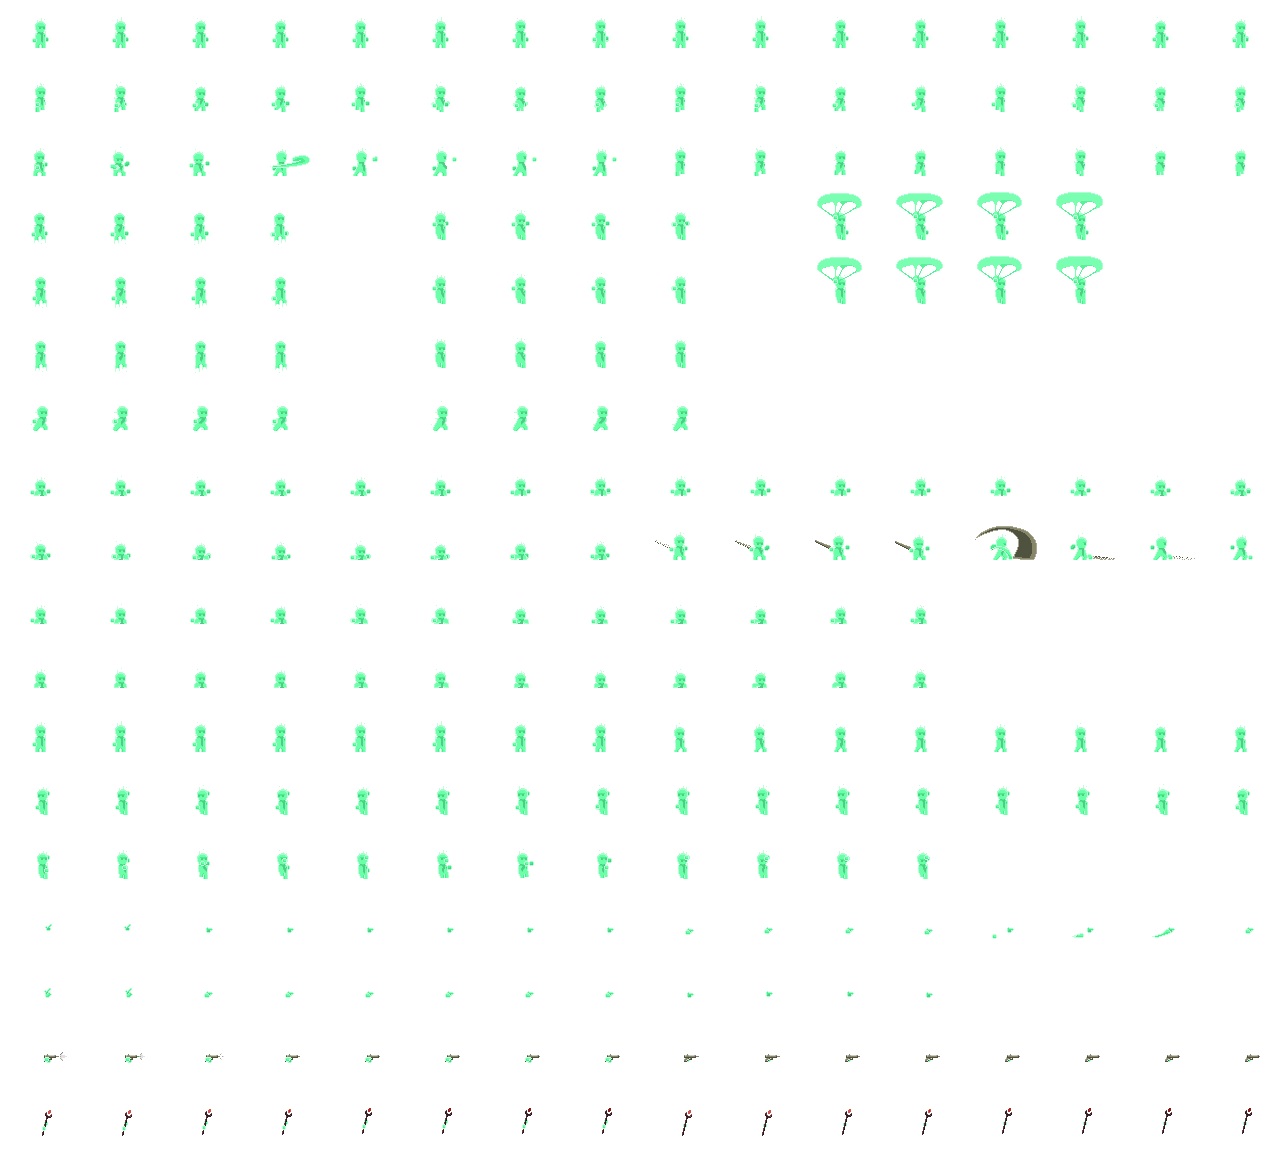
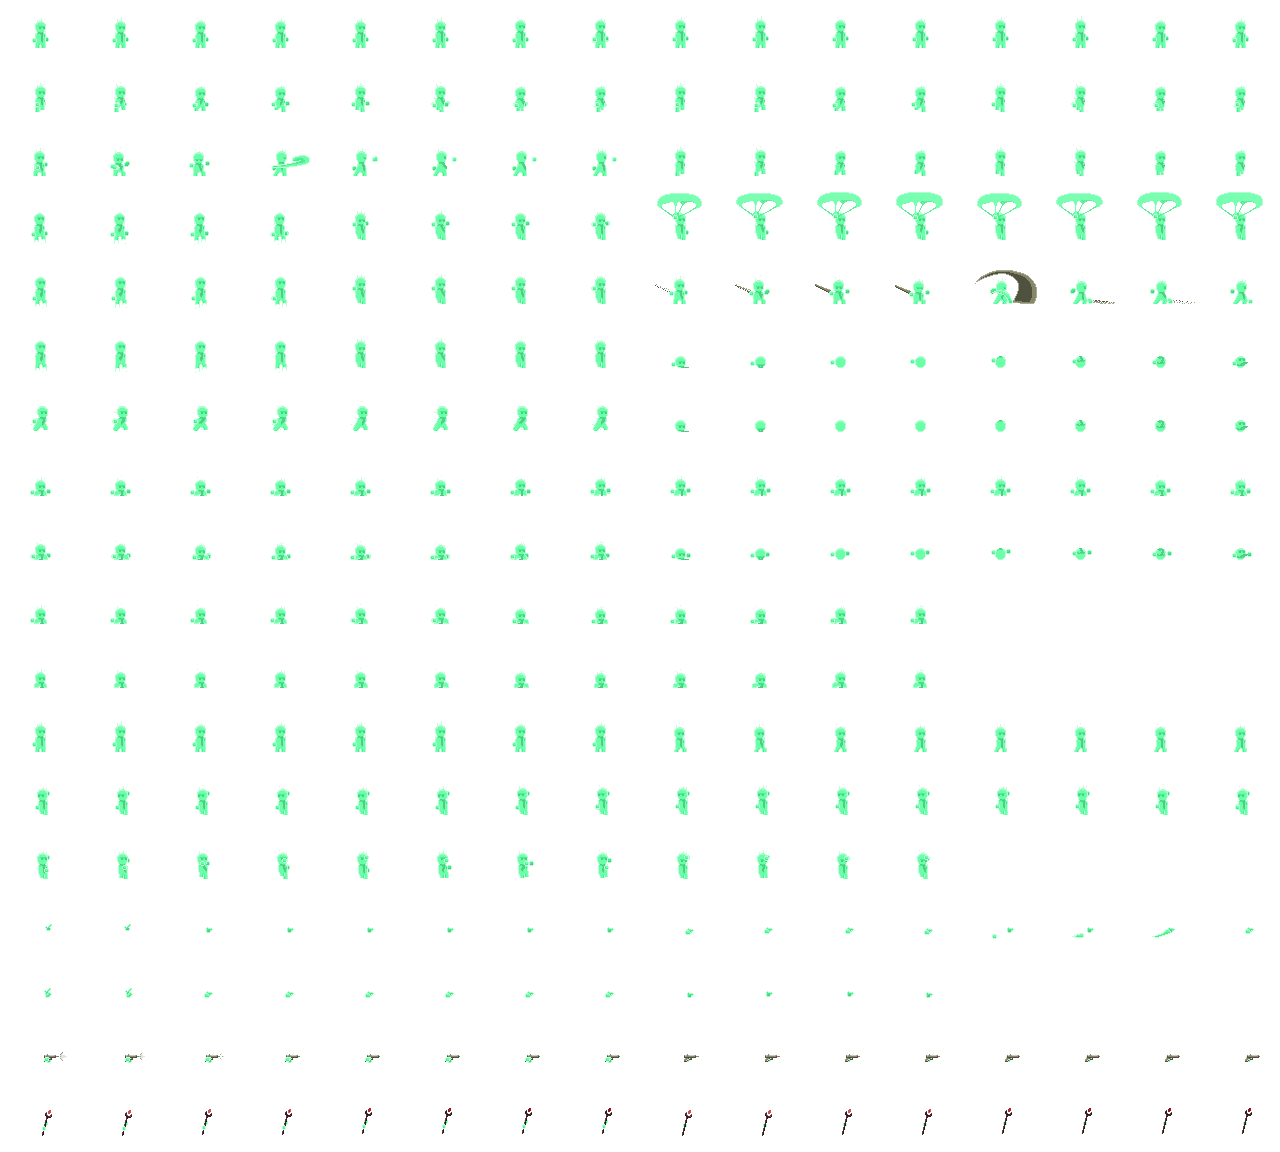
Update GiantSlime
- Added Giant Slime Animations
- Added new Player Dash Animation When Couching

diff --git a/GameObjects/Character/Player.cs b/GameObjects/Character/Player.cs
@@ -111,18 +111,16 @@ namespace FinalComGame
             Animation.AddAnimation("run_charge_1", new Vector2(8,1), 8);
             Animation.AddAnimation("run_charge_2", new Vector2(8,2), 8);
 
-            Animation.AddAnimation("melee", new Vector2(0,2), 8);
-
             Animation.AddAnimation("jump", new Vector2(0,3), 4);
             Animation.AddAnimation("jump_charge_1", new Vector2(0,4), 4);
             Animation.AddAnimation("jump_charge_2", new Vector2(0,5), 4);
 
-            Animation.AddAnimation("fall", new Vector2(5,3), 4);
-            Animation.AddAnimation("fall_charge_1", new Vector2(5,4), 4);
-            Animation.AddAnimation("fall_charge_2", new Vector2(5,5), 4);    
+            Animation.AddAnimation("fall", new Vector2(4,3), 4);
+            Animation.AddAnimation("fall_charge_1", new Vector2(4,4), 4);
+            Animation.AddAnimation("fall_charge_2", new Vector2(4,5), 4);    
 
-            Animation.AddAnimation("glide", new Vector2(10,3), 4);
-            Animation.AddAnimation("glide_charge", new Vector2(10,4), 4);
+            Animation.AddAnimation("glide", new Vector2(8,3), 4);
+            Animation.AddAnimation("glide_charge", new Vector2(12,3), 4);
 
             Animation.AddAnimation("dash", new Vector2(0,6), 4);
             Animation.AddAnimation("dash_charge", new Vector2(5,6), 4);
@@ -135,18 +133,23 @@ namespace FinalComGame
             Animation.AddAnimation("crawl_charge_1", new Vector2(4,9), 8);
             Animation.AddAnimation("crawl_charge_2", new Vector2(4,10), 8);
 
+            Animation.AddAnimation("roll", new Vector2(8,8), 8);
+            Animation.AddAnimation("roll_charge_1", new Vector2(8,5), 8);
+            Animation.AddAnimation("roll_charge_2", new Vector2(8,6), 8);
+
             Animation.AddAnimation("climb_idle_1", new Vector2(0,12), 16);
             Animation.AddAnimation("climb_up_1", new Vector2(0,13), 8);
             Animation.AddAnimation("climb_down_1", new Vector2(8,13), 4);
 
             //TODO : Add sword attack animation
-            Animation.AddAnimation("sword", new Vector2(8,8), 8);
+            Animation.AddAnimation("melee", new Vector2(0,2), 8);
+            Animation.AddAnimation("sword", new Vector2(8,4), 8);
 
             Animation.ChangeAnimation(_currentAnimation);
 
             HandAnimation = new Animation(texture, 80, 64, new Vector2(80*16 , 64*18), 24);
 
-            HandAnimation.AddAnimation("idle", new Vector2(4,3), 1);
+            HandAnimation.AddAnimation("idle", new Vector2(12,9), 1);
 
             HandAnimation.AddAnimation("charge_1", new Vector2(3,14), 1);
             HandAnimation.AddAnimation("charge_1_to_2", new Vector2(12,14), 4);
@@ -335,12 +338,24 @@ namespace FinalComGame
             }
 
             else if (_isDashing){
-                if (HandAnimation._currentAnimation == "idle" || 
-                    HandAnimation._currentAnimation == "charge_1" || 
-                    HandAnimation._currentAnimation == "fire_1")
-                    animation = "dash";
+                if (!_isCrouching){
+                    if (HandAnimation._currentAnimation == "idle" || 
+                        HandAnimation._currentAnimation == "charge_1" || 
+                        HandAnimation._currentAnimation == "fire_1")
+                        animation = "dash";
+                    else
+                        animation = "dash_charge"; 
+                }
                 else
-                    animation = "dash_charge";
+                {
+                    if (HandAnimation._currentAnimation == "idle")
+                        animation = "roll";
+                    else if (HandAnimation._currentAnimation == "charge_1" || 
+                            HandAnimation._currentAnimation == "fire_1")
+                        animation = "roll_charge_1";
+                    else
+                        animation = "roll_charge_2";
+                }
             }
 
             else if (_isGliding && !_isJumping)
@@ -597,7 +612,7 @@ namespace FinalComGame
                 }
                 else
                 {
-                    if (ItemSlot[1] is Staff && MP >= 10)
+                    if (ItemSlot[1] is Staff && MP >= ItemSlot[1].MPCost)
                        _currentWeapon = "staff";
                     else if (ItemSlot[1] is Gun)
                         _currentWeapon = "gun";
@@ -662,14 +677,14 @@ namespace FinalComGame
                 _isGliding = false;
             }
 
-            if (Singleton.Instance.IsKeyPressed(Crouch) && !_isJumping && !_isClimbing && Velocity.Y == 0)
+            if (Singleton.Instance.IsKeyPressed(Crouch) && !_isJumping && !_isClimbing && Velocity.Y == 0 && !_isDashing)
             {
                 if (!_isCrouching) Position.Y += 16;
                 Viewport.Height = 16;
                 WalkSpeed = CrouchSpeed;
                 _isCrouching = true;
             }
-            else
+            else if(!_isDashing)
             {
                 if (_isCrouching) Position.Y -= 16;
                 Viewport.Height = 32;
@@ -738,7 +753,7 @@ namespace FinalComGame
         protected override bool IsOnGround()
         {
             //TODO apex of jump is grounded?
-            return Velocity.Y == 0 || _isClimbing;
+            return Velocity.Y == 0 || _isClimbing ;
         }
 
         private void ActiveItemPassiveAbility(float deltaTime,List<GameObject> gameObjects)

diff --git a/GameObjects/Character/GiantSlime.cs b/GameObjects/Character/GiantSlime.cs
@@ -20,16 +20,66 @@ namespace FinalComGame
 
         public GiantSlime(Texture2D texture, Texture2D particleTexture) : base(texture) 
         { 
-            // Animation = new Animation(texture, 48, 48, new Vector2(48*8 , 48*6), 12);
-            // Animation.AddAnimation("Chase", new Vector2(0, 0), 8);
-            // Animation.AddAnimation("charge", new Vector2(0, 1), 6);
-            // Animation.AddAnimation("jump", new Vector2(0, 2), 5);
-            // Animation.AddAnimation("float", new Vector2(0, 3), 1);
-            // Animation.AddAnimation("land", new Vector2(0, 4), 5);
-            // Animation.AddAnimation("die", new Vector2(0, 5), 7);
-            // Animation.ChangeAnimation(_currentAnimation);
-
+            _texture = texture;
             CanCollideTile = true;
+        }
+
+        public override void AddAnimation(){
+            Animation = new Animation(_texture, 96, 80, new Vector2(96*6 , 80*5), 24);;
+
+            Animation.AddAnimation("idle", new Vector2(0, 0), 4);
+            Animation.AddAnimation("charge", new Vector2(0, 1), 3);
+            Animation.AddAnimation("jump", new Vector2(0, 2), 5);
+            Animation.AddAnimation("float", new Vector2(5, 2), 1);
+            Animation.AddAnimation("land", new Vector2(0, 3), 6);
+            Animation.AddAnimation("fly", new Vector2(0, 4), 6);
+
+            Animation.ChangeAnimation("idle");
+        }
+
+        protected override void UpdateAnimation(float deltaTime)
+        {
+            string animation = "idle";
+
+            if (_jumpCounter < JumpsBeforeHighJump)
+            {
+                if (_actionTimer < 0.75 && Velocity.Y == 0){
+                    animation = "charge"; 
+                }
+                else if(Velocity.Y != 0){
+                    animation = "jump";
+                }
+                else if (_actionTimer >= 1)
+                    animation = "land"; ; 
+            }
+            else
+            {
+                animation = "fly";                
+            }
+
+            if(_currentAnimation != animation)
+            {
+                _currentAnimation = animation;
+                switch (animation)
+                {
+                    case "jump" :
+                        Animation.ChangeTransitionAnimation(_currentAnimation, "float");
+                        break;
+                    case "land" :
+                        Animation.ChangeTransitionAnimation(_currentAnimation, "idle");
+                        break;
+                    case "charge": 
+                    case "die":
+                        Animation.ChangeAnimation(_currentAnimation);
+                        Animation.IsLooping = false;
+                        break;
+                    default:
+                        Animation.ChangeAnimation(_currentAnimation);
+                        break;
+                }    
+            }
+            
+            base.UpdateAnimation(deltaTime);
         }
 
         public override void Update(GameTime gameTime, List<GameObject> gameObjects, TileMap tileMap)
@@ -65,6 +115,7 @@ namespace FinalComGame
                     break;
             }
 
+            UpdateAnimation(deltaTime);
             base.Update(gameTime, gameObjects, tileMap);
         }
 
@@ -231,7 +282,20 @@ namespace FinalComGame
 
         public override void Draw(SpriteBatch spriteBatch)
         {
-            base.Draw(spriteBatch);
+            Color color = IsInvincible() ? Color.Red : Color.White;
+
+            spriteBatch.Draw(
+                Animation.GetTexture(),
+                GetDrawingPosition(),
+                Animation.GetCurrentFrame(),
+                color,
+                0f, 
+                Vector2.Zero,
+                Scale,
+                SpriteEffects.None, 
+                0f
+            );
+            
             DrawDebug(spriteBatch);
         }
 

diff --git a/Scene/PlayScene.cs b/Scene/PlayScene.cs
@@ -376,7 +376,8 @@ public class PlayScene : Scene
         Texture2D _DemonTexture = _content.Load<Texture2D>("Demon");
         Texture2D _TowerTexture = _content.Load<Texture2D>("Spitter");
         Texture2D _PlatformTexture = _content.Load<Texture2D>("Crab");
-        Texture2D _GiantSlimeTexture = _content.Load<Texture2D>("GiantSlime");
+
+        Texture2D _GiantSlimeTexture = _content.Load<Texture2D>("LargeSlime");
         Texture2D _CerberusTexture = _content.Load<Texture2D>("Cerberus");
 
         Texture2D projectileTexture = _content.Load<Texture2D>("Projectile");
@@ -494,8 +495,9 @@ public class PlayScene : Scene
                     Name = "Enemy",//I want to name Skeleton but bullet code dectect enemy by name
                     Viewport = new Rectangle(0, 0, 64, 48),
 
-                    MaxHealth = 1f,
+                    MaxHealth = 1000f,
                     BaseAttackDamage = 3f,
+                    IsIgnorePlatform = true,
 
                     // JumpCooldown = 3.0f,
                     BaseJumpStrength = 550,
@@ -588,9 +590,7 @@ public class PlayScene : Scene
         Texture2D ItemTexture = _content.Load<Texture2D>("Items");
         Texture2D projectileTexture = _content.Load<Texture2D>("Projectile");
         Texture2D ExplosionEffect = _content.Load<Texture2D>("Explosion");
-        Texture2D SoulStaff = _content.Load<Texture2D>("SoulStaff");
         
-
         //set for all item
         Item.TooltipBackgroundTexture = _content.Load<Texture2D>("ItemSlot");
         Item.PickUpSound = _content.Load<SoundEffect>("PickUp");

diff --git a/GameObjects/Character/BaseEnemy.cs b/GameObjects/Character/BaseEnemy.cs
@@ -39,6 +39,8 @@ namespace FinalComGame {
 
         // Spawn and Death Tracking
         public bool CanCollideTile;
+        public bool IsIgnorePlatform = false;
+
         public bool IsDead() => CurrentState == EnemyState.Dead;
         
         public BaseEnemy(Texture2D texture) : base(texture){
@@ -198,7 +200,7 @@ namespace FinalComGame {
         }
 
         public virtual bool CanDropThroughPlatform(Tile tile){
-            return (IsAbovePlayer() && IsPlayerAbovePlatform(tile)) || Velocity.Y < 0;
+            return (IsAbovePlayer() && IsPlayerAbovePlatform(tile)) || Velocity.Y < 0 || IsIgnorePlatform;
         }
 
         public virtual bool CheckContactPlayer(){

diff --git a/GameObjects/Character/SlimeEnemy.cs b/GameObjects/Character/SlimeEnemy.cs
@@ -142,7 +142,20 @@ namespace FinalComGame
 
         public override void Draw(SpriteBatch spriteBatch)
         {
-            base.Draw(spriteBatch);
+            Color color = IsInvincible() ? Color.Red : Color.White;
+
+            spriteBatch.Draw(
+                Animation.GetTexture(),
+                GetDrawingPosition(),
+                Animation.GetCurrentFrame(),
+                color,
+                0f, 
+                Vector2.Zero,
+                Scale,
+                SpriteEffects.None, 
+                0f
+            );
+
             DrawDebug(spriteBatch);
         }
         protected override void DrawDebug(SpriteBatch spriteBatch)

diff --git a/GameObjects/Item/Staff.cs b/GameObjects/Item/Staff.cs
@@ -9,7 +9,6 @@ namespace FinalComGame;
 public class Staff : RangeWeapon
 {
     public FireBall FireBall;
-    public float MPCost;
 
     public Staff(Texture2D texture, ItemType type, Vector2 Position, float attackDamage = 100f, int ammoAmount = 15)
         : base(texture, type, Position, attackDamage, ammoAmount)

diff --git a/GameObjects/Item/Item.cs b/GameObjects/Item/Item.cs
@@ -23,6 +23,8 @@ public class Item : GameObject, IItemDisplayable
 
     public Rectangle spriteViewport = new Rectangle(0, 0, 32,32);
     public ItemType Type;
+
+    public float MPCost = 0;
     
     // Visual indicator for pickup range
     public float pickupRadius = 40f;
